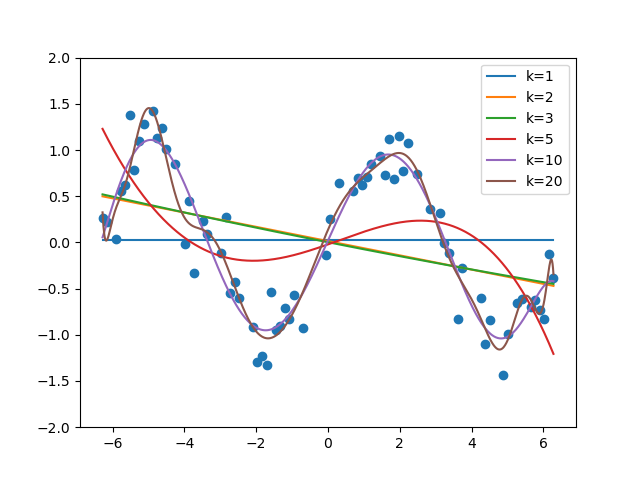
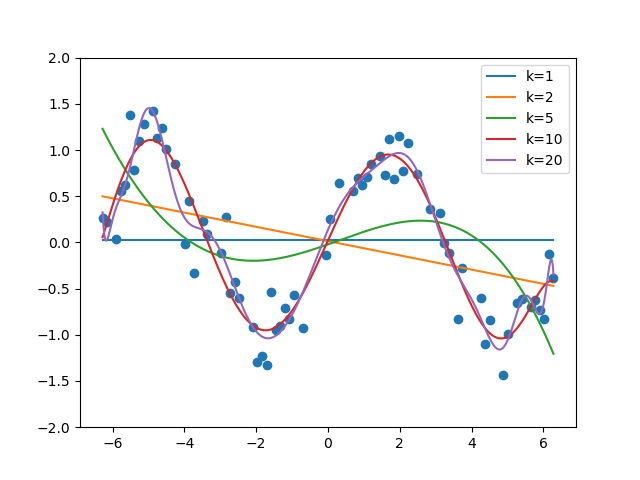
Question 3 part e

diff --git a/pset-1/featuremaps/featuremap.py b/pset-1/featuremaps/featuremap.py
@@ -103,9 +103,9 @@ def run_exp(
         """
         # *** START CODE HERE ***
         model = LinearModel()
-        input_x = model.create_sin(train_x, k)
+        input_x = model.create_poly(train_x, k)
         model.fit(input_x, train_y)
-        plot_y = model.predict(model.create_sin(plot_x, k))
+        plot_y = model.predict(model.create_poly(plot_x, k))
         # *** END CODE HERE ***
         """
         Here plot_y are the predictions of the linear model on the plot_x data
@@ -123,7 +123,7 @@ def main(train_path, small_path, eval_path):
     Run all expetriments
     """
     # *** START CODE HERE ***
-    run_exp(train_path)
+    run_exp(train_path, ks=[1, 2, 5, 10, 20])
     # *** END CODE HERE ***
 
 
